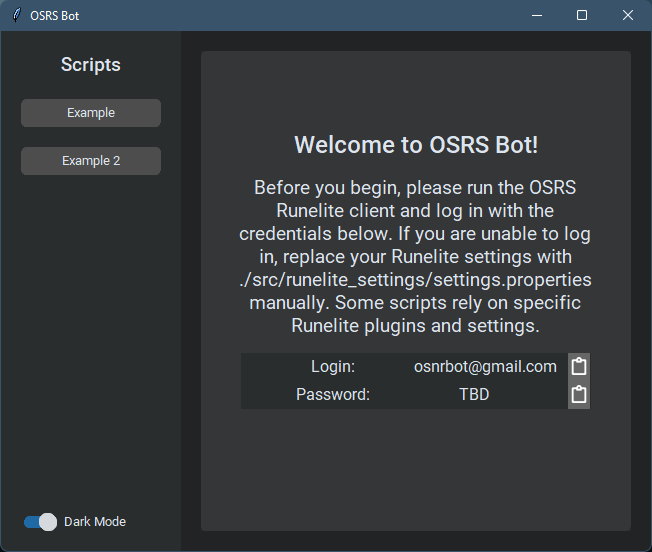
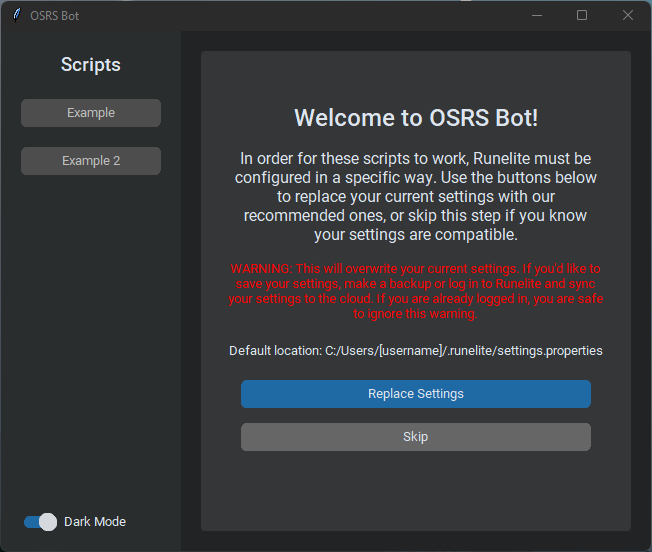
Updated README

diff --git a/README.md b/README.md
@@ -13,7 +13,7 @@ A lightweight desktop client for controlling and monitoring automation scripts (
 4. Run main.py (./src/main.py)
 
 # Project Overview
-Upon running the program, the user will be met with a home screen that should tell them how to configure their Runelite client. It is essential that Runelite settings are configured correctly, as much of the bot-utility library relies on various Runelite plugins. One way of ensuring uniformity in Runelite settings is to encourage the user to log in with an account that already has the correct settings. A better way would be to create a function that swaps the user's settings with the settings.properties file in the project, but this has not been implemented yet.
+Upon running the program, the user will be met with a home screen that should tell them how to configure their Runelite client. It is essential that Runelite settings are configured correctly, as much of the bot-utility library relies on various Runelite plugins. Before the user can select a script in the left-side menu, they must either click "Replace Settings" button to overwrite their settings file, or skip this step if they are confident their settings will work. *In the future, the "Skip" button should perform a diff to see if the settings are significantly different from the default settings.*
 
 ![](documentation/wiki_images/1.home_view.png)
 
@@ -43,15 +43,15 @@ Much of the UI code is already written for you. However, since each bot is diffe
 - Lastly, call the setup() method on the BotView passing it the required arguments.
 
 ### Step 1: Create the button in main.py
-Find the section where all the other script buttons exist and add a new button. The command of this button should call the existing *toggle_frame_by_name* function with a name matching the name of your bot. We are using "Woodcutting" in this example.
+Find the section where all the other script buttons exist and add a new button and append it to the button list. The command of this button should call the existing *toggle_frame_by_name* function with a name matching the name of your bot. We are using "Woodcutting" in this example.
 
 ```python
 self.btn_wc = customtkinter.CTkButton(master=self.frame_left,
                                       text="Woodcutting",
-                                      fg_color=("gray75", "gray30"),
                                       command=lambda: self.toggle_frame_by_name("Woodcutting", self.btn_wc))
 # Set row argument according to position of button in left panel
 self.btn_wc.grid(row=3, column=0, pady=10, padx=20)
+self.btn_list.append(self.btn_wc)
 ```
 
 ### Step 2: Create the BotView in main.py
@@ -106,9 +106,9 @@ self.views["Woodcutting"].setup(controller=self.wc_controller,
 # --- Buttons ---
 self.btn_wc = customtkinter.CTkButton(master=self.frame_left,
                                       text="Woodcutting",
-                                      fg_color=("gray75", "gray30"),
                                       command=lambda: self.toggle_frame_by_name("Woodcutting", self.btn_wc))
 self.btn_wc.grid(row=?, column=0, pady=10, padx=20)
+self.btn_list.append(self.btn_wc)
 # --- Views ---
 self.views = {}
 self.views["Woodcutting"] = BotView(parent=self.frame_right)
@@ -166,7 +166,7 @@ Throughout your *main_loop()* function, you should make use of functions that re
 
 **TODO: Add full list of built-in functions users should use.**
 
-# Creating an Executable
+# Creating an Executable (*OUTDATED*)
 Making this project into an executable is kind of tedious. Due to some issues with dependencies, it's not possible to build this project into a single-file executable, however, a directory-based executable can be made.
 
 1. In the terminal, navigate to the directory containing the project.
